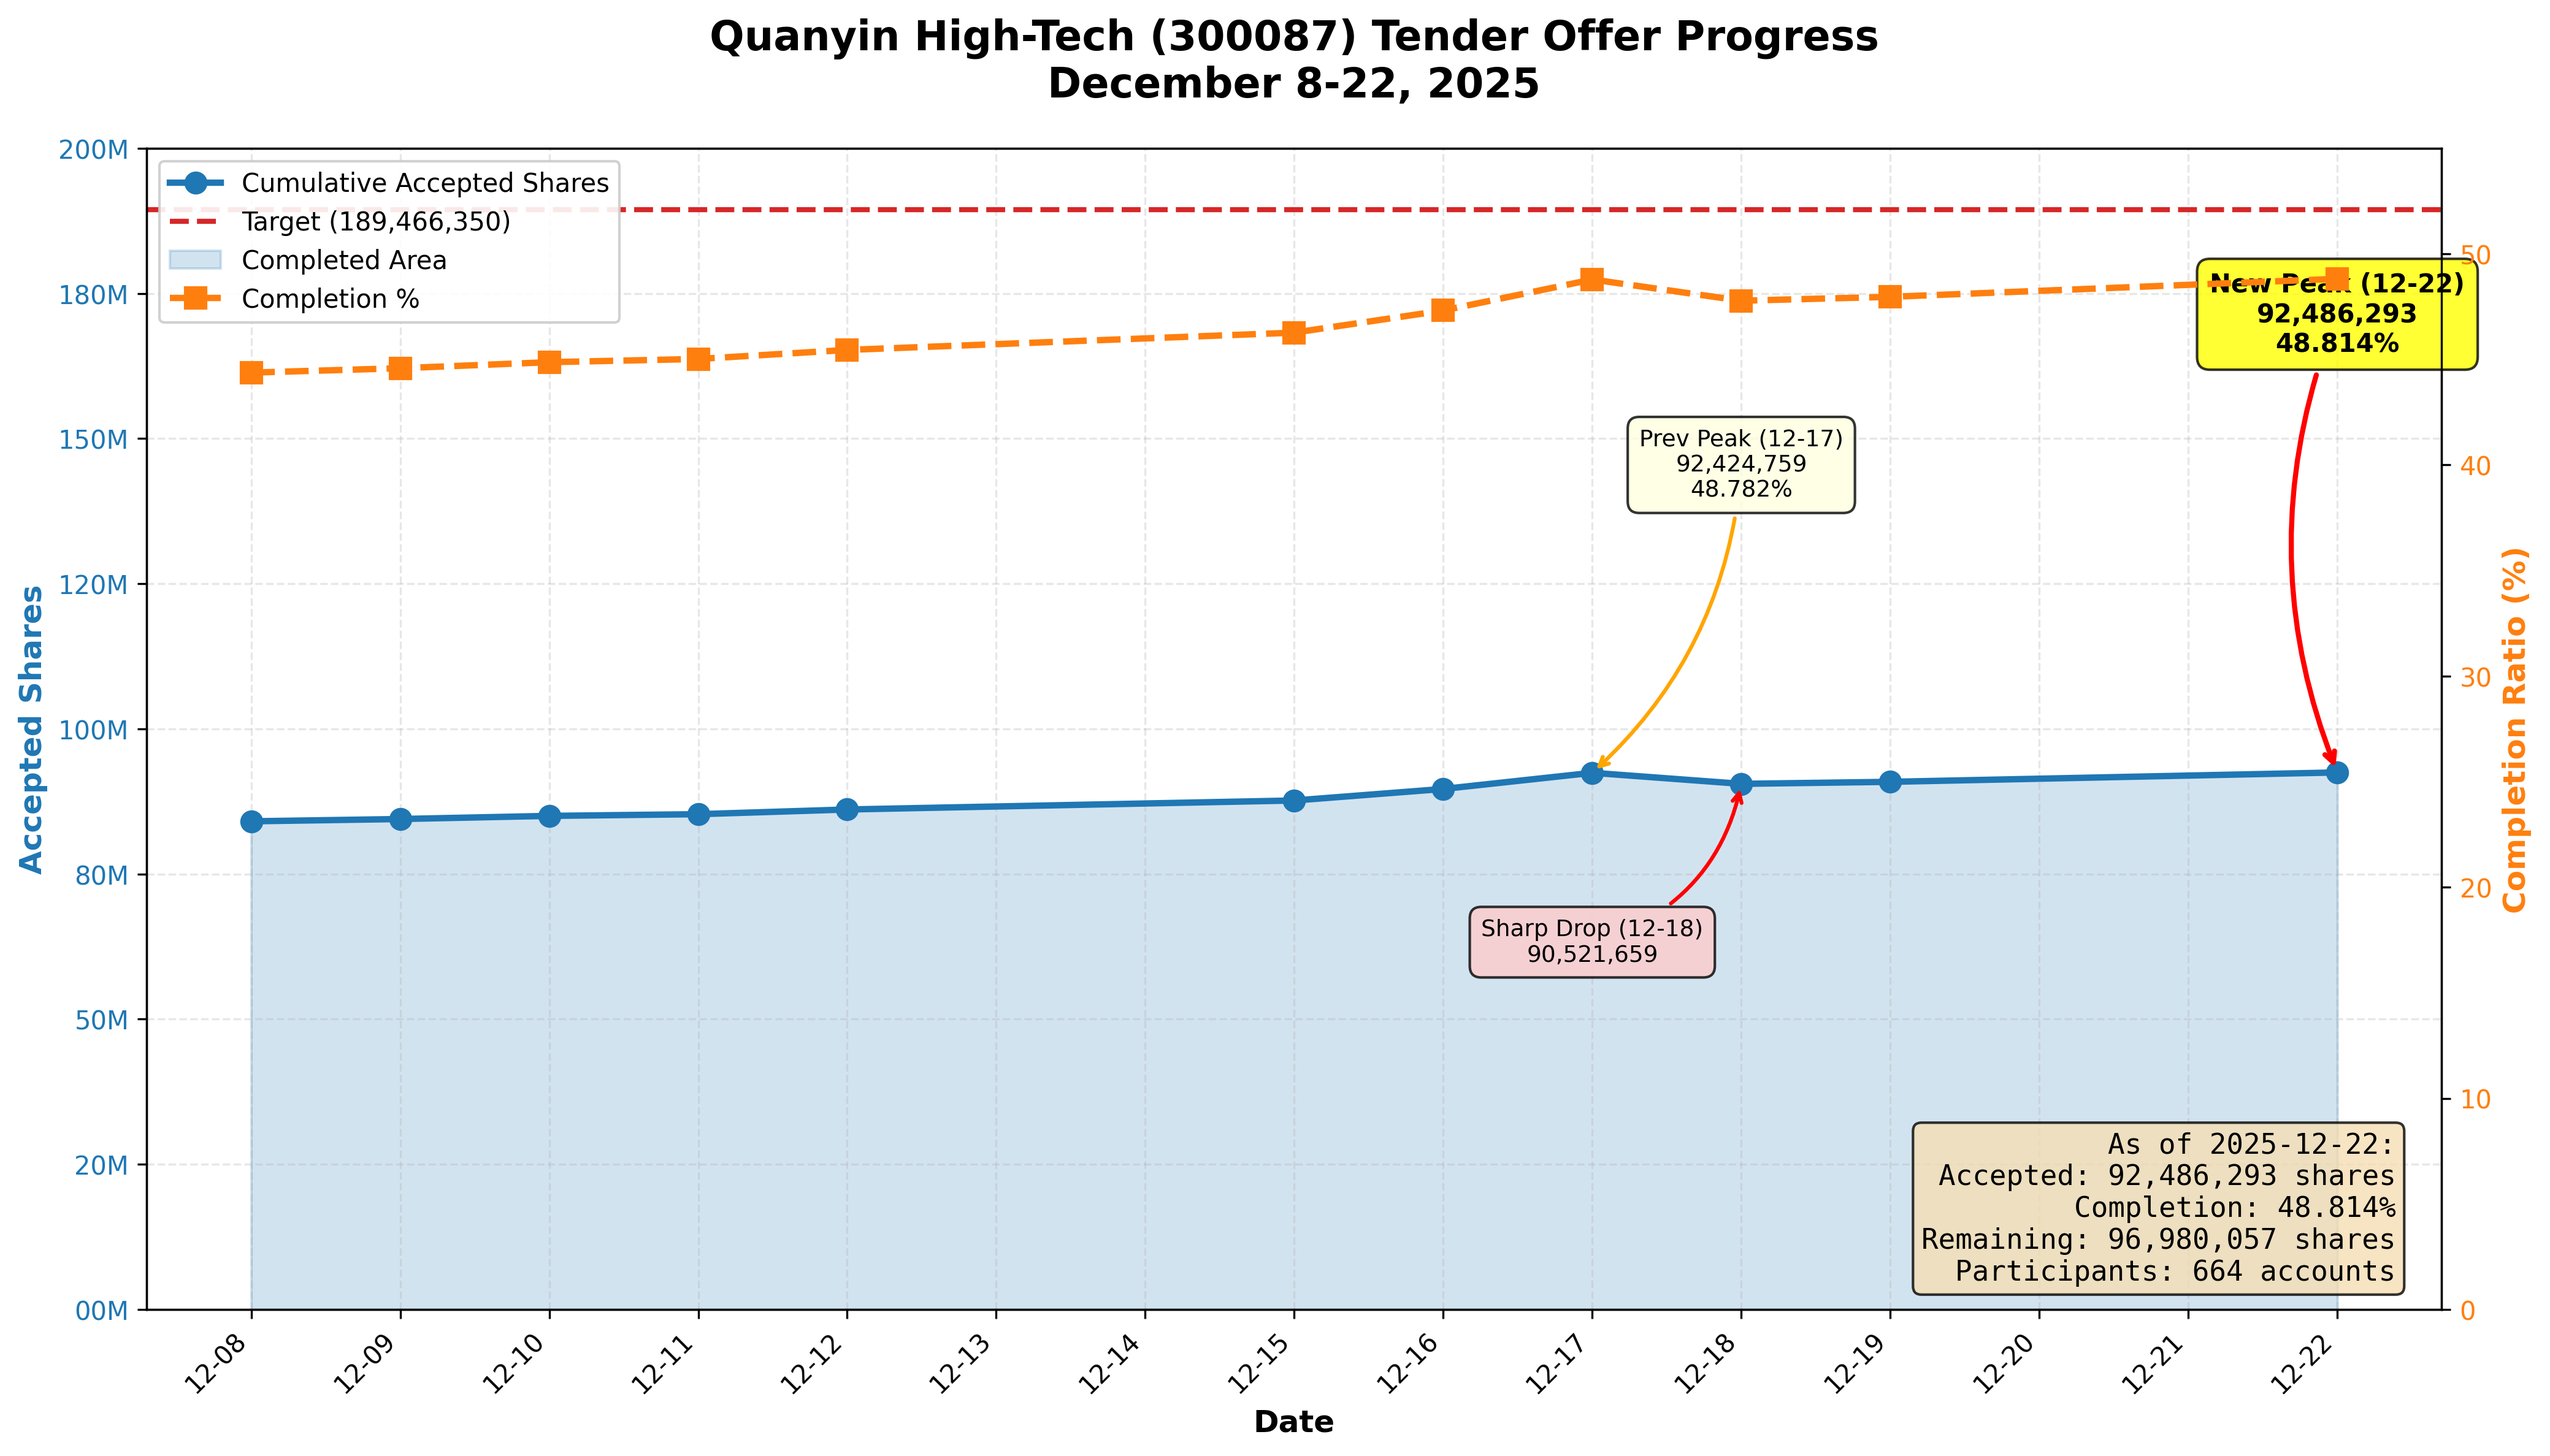
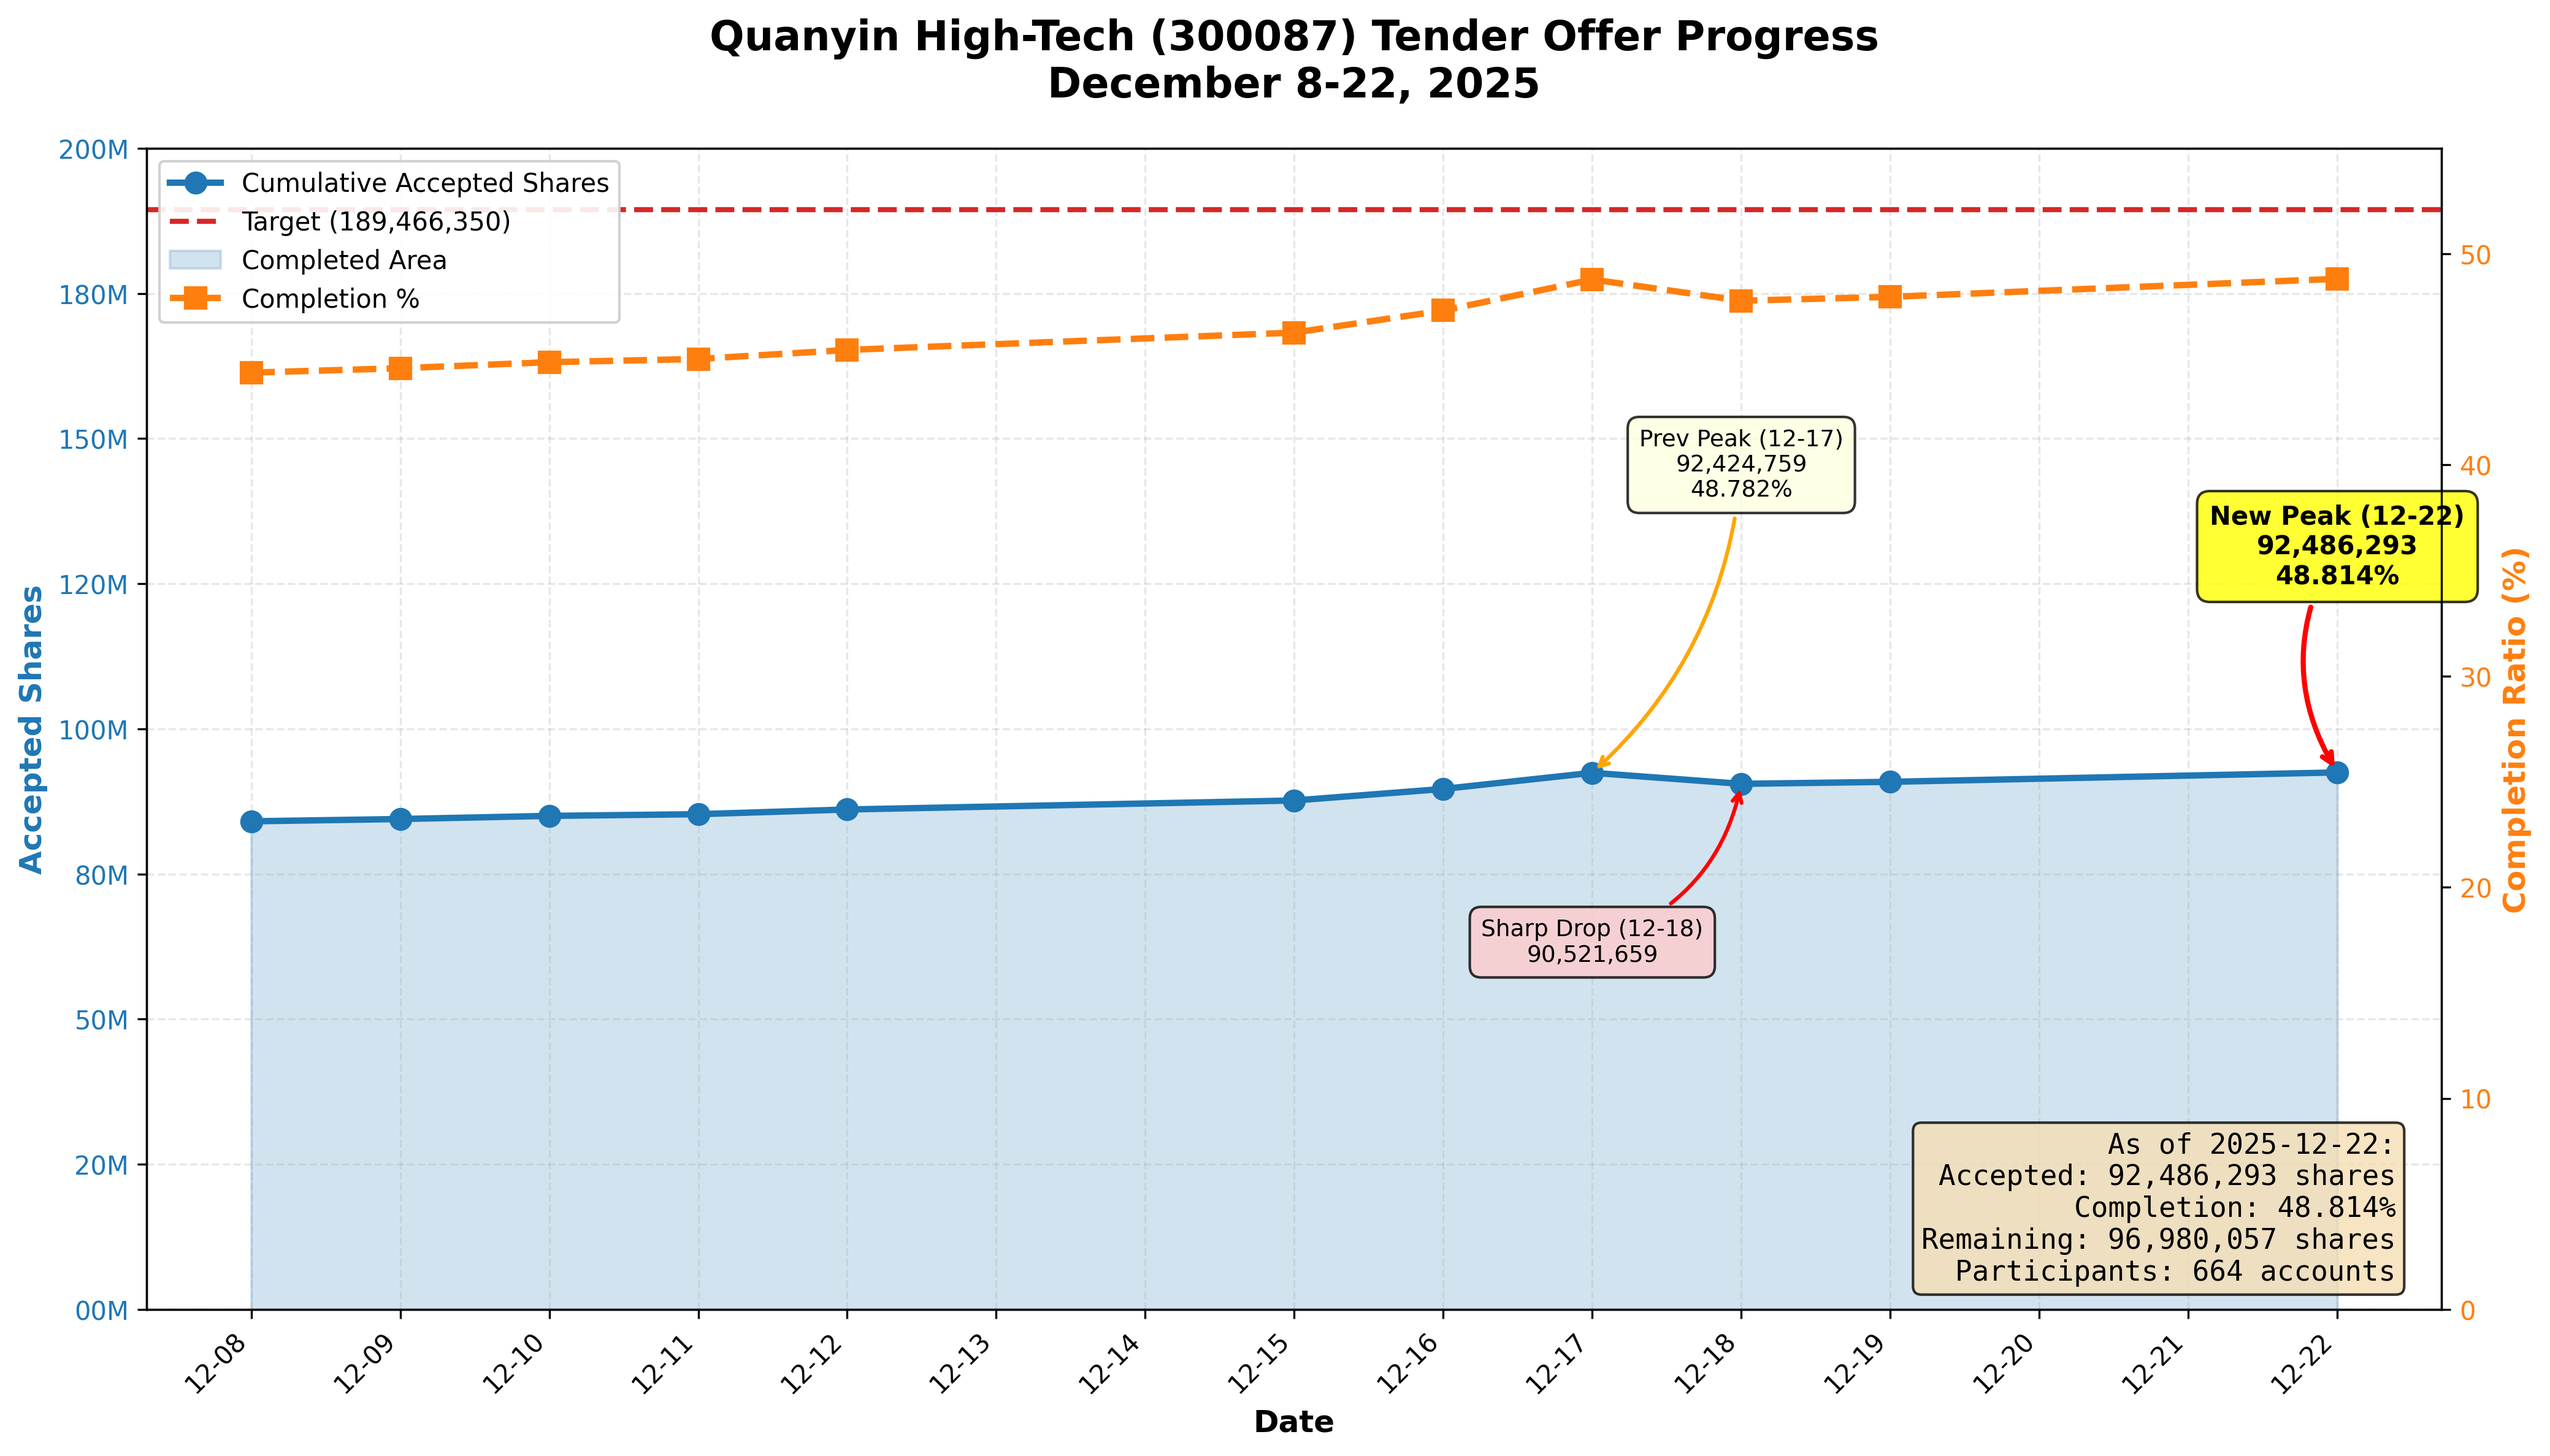
调整图表标注位置避免遮挡数据线
- 将New Peak (12-22)标注框下移至125M位置
- 避免遮挡橙色的完成比例线
- 三个标注框现在都在空白区域，互不遮挡
- 图表可读性进一步提升

Changed region(s): [[0.8377, 0.3116, 0.9928, 0.4362], [0.8377, 0.1558, 0.9928, 0.2804], [0.8997, 0.4674, 0.9307, 0.5297]]

diff --git a/05_quanyin_tender_offer/generate_chart.py b/05_quanyin_tender_offer/generate_chart.py
@@ -115,9 +115,9 @@ plt.setp(ax1.xaxis.get_majorticklabels(), rotation=45, ha='right')
 peak_idx = completion_ratio.index(max(completion_ratio))
 ax1.annotate(f'New Peak (12-22)\n{cumulative_shares[peak_idx]:,}\n{completion_ratio[peak_idx]}%',
              xy=(date_objects[peak_idx], cumulative_shares[peak_idx]),
-             xytext=(date_objects[-1], 165000000),
+             xytext=(date_objects[-1], 125000000),
              bbox=dict(boxstyle='round,pad=0.5', facecolor='yellow', alpha=0.8),
-             arrowprops=dict(arrowstyle='->', connectionstyle='arc3,rad=0.2',
+             arrowprops=dict(arrowstyle='->', connectionstyle='arc3,rad=0.3',
                            color='red', lw=2),
              fontsize=10, fontweight='bold', ha='center')
 
